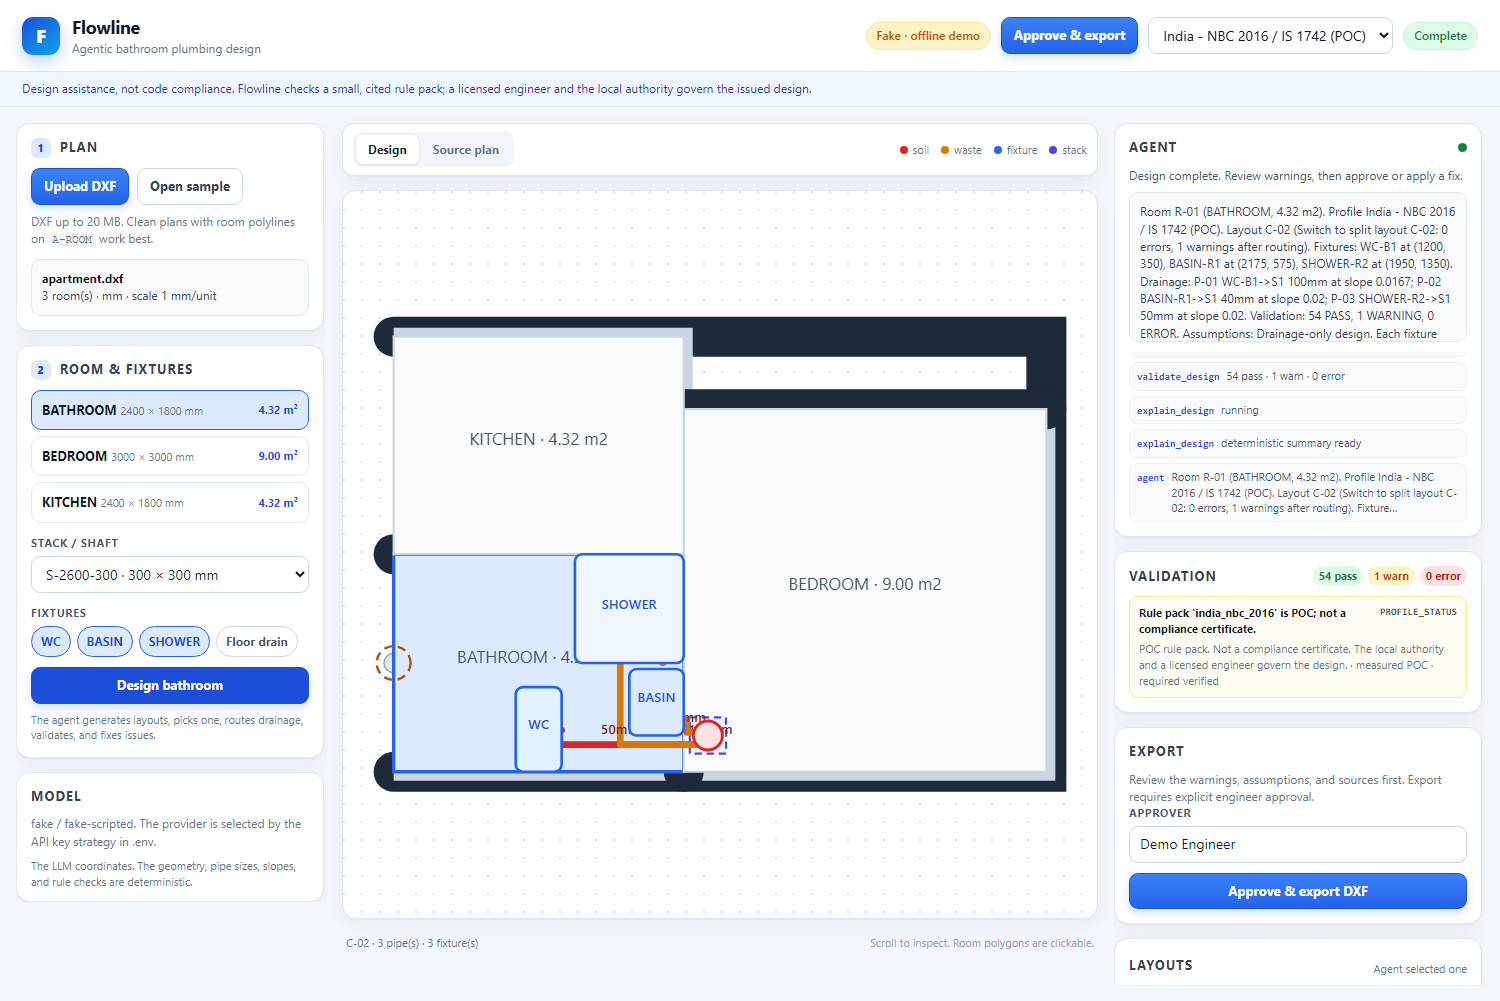
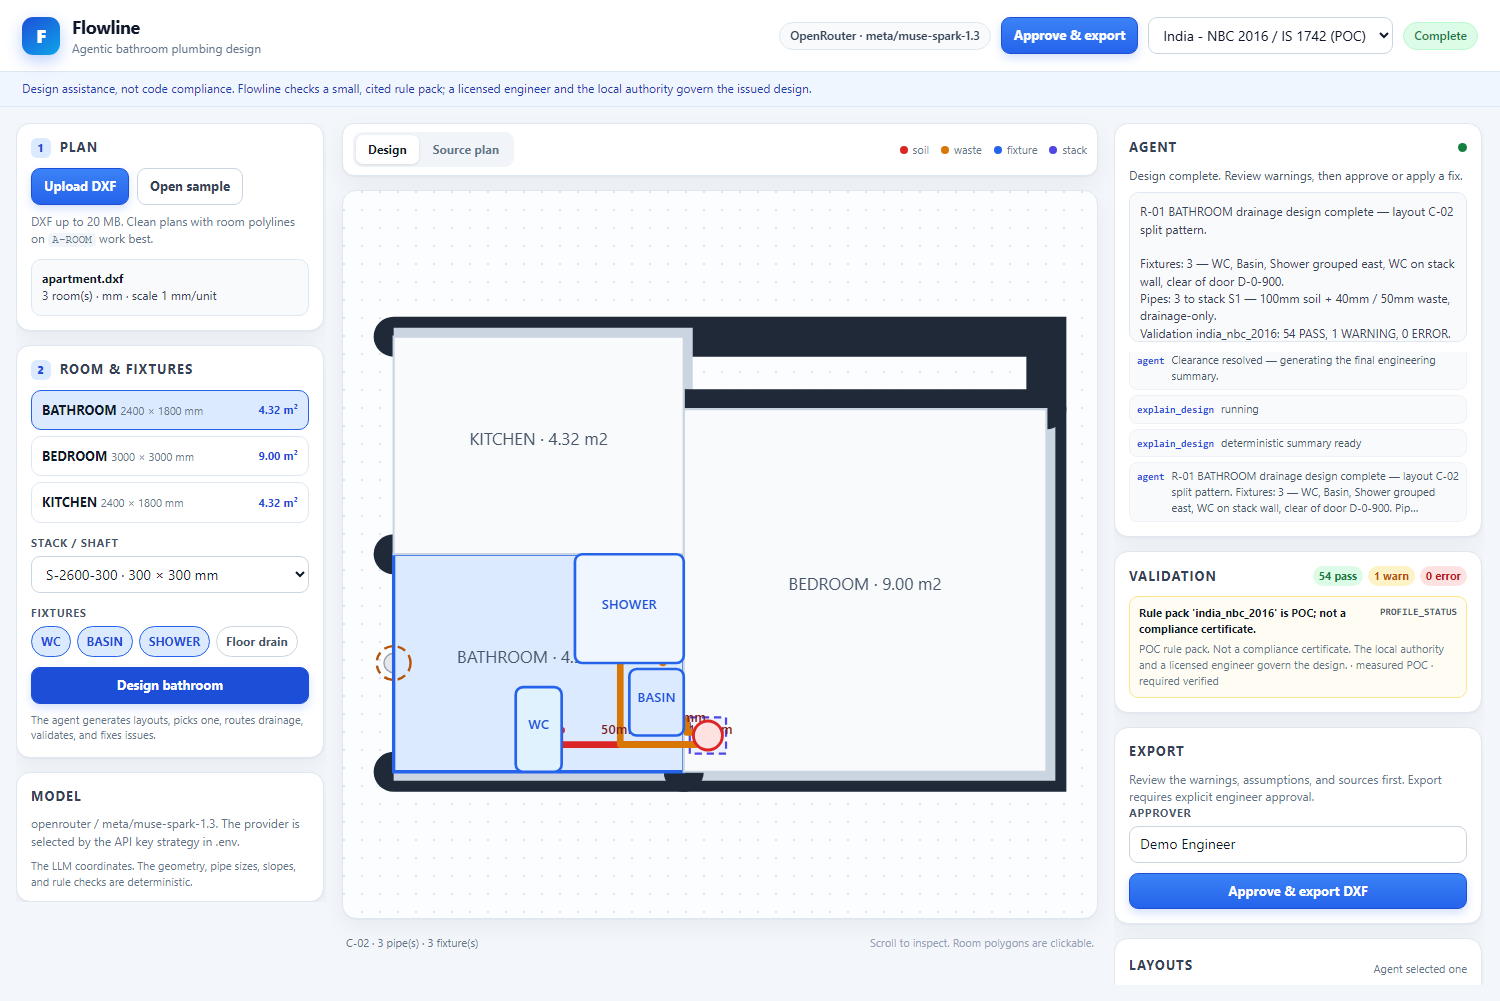
feat: default the OpenRouter fallback to Meta Muse Spark 1.3

diff --git a/app/static/app.js b/app/static/app.js
@@ -498,7 +498,7 @@ function renderFinalAnswer() {
     box.classList.add("hidden");
     return;
   }
-  box.textContent = state.finalAnswer;
+  box.textContent = cleanText(state.finalAnswer);
   box.classList.remove("hidden");
 }
 
@@ -574,7 +574,7 @@ function addTrace(tool, detail, failed = false) {
   trace.querySelector(".trace-empty")?.remove();
   const row = document.createElement("div");
   row.className = "trace-row" + (failed ? " fail" : "");
-  row.innerHTML = `<span class="tool">${escapeHtml(tool)}</span><span class="detail">${escapeHtml(detail || "")}</span>`;
+  row.innerHTML = `<span class="tool">${escapeHtml(tool)}</span><span class="detail">${escapeHtml(cleanText(detail || ""))}</span>`;
   trace.appendChild(row);
   state.traceCount += 1;
   while (trace.children.length > 40) trace.firstElementChild.remove();
@@ -664,6 +664,13 @@ function escapeHtml(value) {
     .replaceAll(">", "&gt;")
     .replaceAll('"', "&quot;")
     .replaceAll("'", "&#039;");
+}
+
+function cleanText(value) {
+  return String(value ?? "")
+    .replaceAll("**", "")
+    .replaceAll("`", "")
+    .replaceAll("__", "");
 }
 
 function truncate(value, length) {

diff --git a/agent/providers/factory.py b/agent/providers/factory.py
@@ -54,7 +54,7 @@ def create_provider(env: Mapping[str, str] | None = None) -> LLMProvider:
             model=values.get("META_MODEL") or META_DEFAULT_MODEL,
             base_url=values.get("META_BASE_URL") or META_DEFAULT_BASE_URL,
             timeout_s=_float_env(values, "LLM_TIMEOUT_SECONDS", 120.0),
-            max_tokens=_int_env(values, "LLM_MAX_TOKENS", 8192),
+            max_tokens=_int_env(values, "LLM_MAX_TOKENS", 4096),
         )
 
     if requested == "openrouter":
@@ -65,7 +65,7 @@ def create_provider(env: Mapping[str, str] | None = None) -> LLMProvider:
             model=values.get("OPENROUTER_MODEL") or OPENROUTER_DEFAULT_MODEL,
             base_url=values.get("OPENROUTER_BASE_URL") or OPENROUTER_DEFAULT_BASE_URL,
             timeout_s=_float_env(values, "LLM_TIMEOUT_SECONDS", 120.0),
-            max_tokens=_int_env(values, "LLM_MAX_TOKENS", 8192),
+            max_tokens=_int_env(values, "LLM_MAX_TOKENS", 4096),
         )
 
     return FakeProvider()

diff --git a/scripts/ui_smoke.py b/scripts/ui_smoke.py
@@ -24,12 +24,13 @@ def main() -> int:
         )
         page.goto("http://127.0.0.1:8000", wait_until="networkidle")
         page.wait_for_selector("#project-summary:not(.hidden)", timeout=15000)
-        assert "Fake" in page.locator("#provider-badge").inner_text()
+        badge = page.locator("#provider-badge").inner_text()
+        assert any(name in badge for name in ("Fake", "OpenRouter", "Meta")), badge
         assert page.locator(".room-card").count() >= 3
         page.screenshot(path=str(OUT / "ui-plan.png"), full_page=True)
 
         page.locator("#design-button").click()
-        page.wait_for_selector("#approve-button:not([disabled])", timeout=45000)
+        page.wait_for_selector("#approve-button:not([disabled])", timeout=180000)
         page.wait_for_selector("#final-answer:not(.hidden)", timeout=15000)
         counts = page.locator("#counts").inner_text()
         assert "0 error" in counts, counts

diff --git a/agent/providers/openrouter.py b/agent/providers/openrouter.py
@@ -3,7 +3,7 @@ from __future__ import annotations
 from agent.providers.chat_completions import ChatCompletionsProvider
 
 DEFAULT_BASE_URL = "https://openrouter.ai/api/v1"
-DEFAULT_MODEL = "deepseek/deepseek-v4.1-flash"
+DEFAULT_MODEL = "meta/muse-spark-1.3"
 
 
 class OpenRouterProvider(ChatCompletionsProvider):
@@ -14,7 +14,7 @@ class OpenRouterProvider(ChatCompletionsProvider):
         model: str = DEFAULT_MODEL,
         base_url: str = DEFAULT_BASE_URL,
         timeout_s: float = 120.0,
-        max_tokens: int = 8192,
+        max_tokens: int = 4096,
         app_title: str = "Flowline",
     ) -> None:
         super().__init__(

diff --git a/agent/providers/chat_completions.py b/agent/providers/chat_completions.py
@@ -21,7 +21,7 @@ class ChatCompletionsProvider(LLMProvider):
         name: str,
         headers: dict[str, str] | None = None,
         timeout_s: float = 120.0,
-        max_tokens: int = 8192,
+        max_tokens: int = 4096,
         retry_delays: tuple[float, ...] = (0.5, 1.0, 2.0),
     ) -> None:
         if not api_key:

diff --git a/agent/providers/meta.py b/agent/providers/meta.py
@@ -14,7 +14,7 @@ class MetaProvider(ChatCompletionsProvider):
         model: str = DEFAULT_MODEL,
         base_url: str = DEFAULT_BASE_URL,
         timeout_s: float = 120.0,
-        max_tokens: int = 8192,
+        max_tokens: int = 4096,
     ) -> None:
         super().__init__(
             base_url=base_url,

diff --git a/README.md b/README.md
@@ -59,11 +59,11 @@ Open <http://127.0.0.1:8000>. The app auto-loads a sample apartment. Upload your
 ```text
 LLM_PROVIDER=auto (default)
   META_API_KEY or MODEL_API_KEY -> Meta Model API (muse-spark-1.3)
-  OPENROUTER_API_KEY            -> OpenRouter
+  OPENROUTER_API_KEY            -> OpenRouter, default model meta/muse-spark-1.3
   otherwise                     -> FakeProvider (offline scripted agent)
 ```
 
-Explicit `LLM_PROVIDER=meta|openrouter|fake` overrides auto. An explicit provider without its key fails fast. Keys are never logged or committed.
+Explicit `LLM_PROVIDER=meta|openrouter|fake` overrides auto. An explicit provider without its key fails fast. Keys are never logged or committed. The OpenRouter fallback is configured to run the same Meta Muse Spark 1.3 model, so the hackathon demo still uses a Meta model if first-party credits are not available; the screenshot shows that path.
 
 ## Architecture
 
@@ -154,7 +154,7 @@ docs/             design, standards, demo script, AutoCAD notes, plan
 - New public repo; first commit on 2026-10-29, during the event. The older private POC is not a dependency.
 - 3-minute demo script: [docs/demo-script.md](docs/demo-script.md).
 - Design: [docs/design.md](docs/design.md). AutoCAD: [docs/autocad.md](docs/autocad.md).
-- Meta Model API is the primary provider; OpenRouter is a development fallback; the fake provider is for tests and offline demos.
+- Meta Model API is the primary provider. OpenRouter is the fallback and runs `meta/muse-spark-1.3` by default. The fake provider is for tests and offline demos.
 
 ## License
 

diff --git a/docs/demo-script.md b/docs/demo-script.md
@@ -4,10 +4,10 @@
 
 ## Pre-flight
 
-1. `.env` contains `META_API_KEY=...`; `python scripts/check_provider.py` prints `provider=meta model=muse-spark-1.3` and `PASS`.
+1. `.env` contains `META_API_KEY=...` (preferred) or `OPENROUTER_API_KEY=...` with `OPENROUTER_MODEL=meta/muse-spark-1.3`; `python scripts/check_provider.py` prints `provider=meta` or `provider=openrouter`, `model=muse-spark-1.3`/`meta/muse-spark-1.3`, and `PASS`.
 2. `python scripts/make_sample_plan.py` has generated both samples.
 3. `uvicorn app.main:app --reload` is running; the browser is at `http://127.0.0.1:8000`.
-4. The provider badge says **Meta · muse-spark-1.3**; the profile is **India - NBC 2016 / IS 1742 (POC)**.
+4. The provider badge shows the Meta model: **Meta · muse-spark-1.3** or **OpenRouter · meta/muse-spark-1.3**. The profile is **India - NBC 2016 / IS 1742 (POC)**.
 5. Close other tabs. Zoom the browser to a readable size. Hide the bookmarks bar.
 6. Have `out/ui-design.png` and `out/DESIGN-01.dxf` ready as backup artifacts.
 

diff --git a/docs/submission.md b/docs/submission.md
@@ -29,7 +29,7 @@ Small MEP consultancies and design-build contractors redraw the same bathroom dr
 - **Muse Spark 1.3** through Meta Model API, OpenAI-compatible Chat Completions with function tools.
 - The model runs a multi-step loop: inspect → list layouts → select → route → validate → fix → validate → explain.
 - The model is restricted to the tool surface. It does not invent dimensions, sizes, slopes, or rule values.
-- Provider strategy: Meta if `META_API_KEY`/`MODEL_API_KEY` is set; OpenRouter for development; a deterministic fake provider for offline tests and demos.
+- Provider strategy: first-party Meta Model API if `META_API_KEY`/`MODEL_API_KEY` is set; otherwise OpenRouter with `OPENROUTER_MODEL=meta/muse-spark-1.3`, which is the same Meta model; a deterministic fake provider for offline tests and demos.
 - The live trace and audit log show the provider, model, tool, input, result, and duration.
 
 ## Why it works
